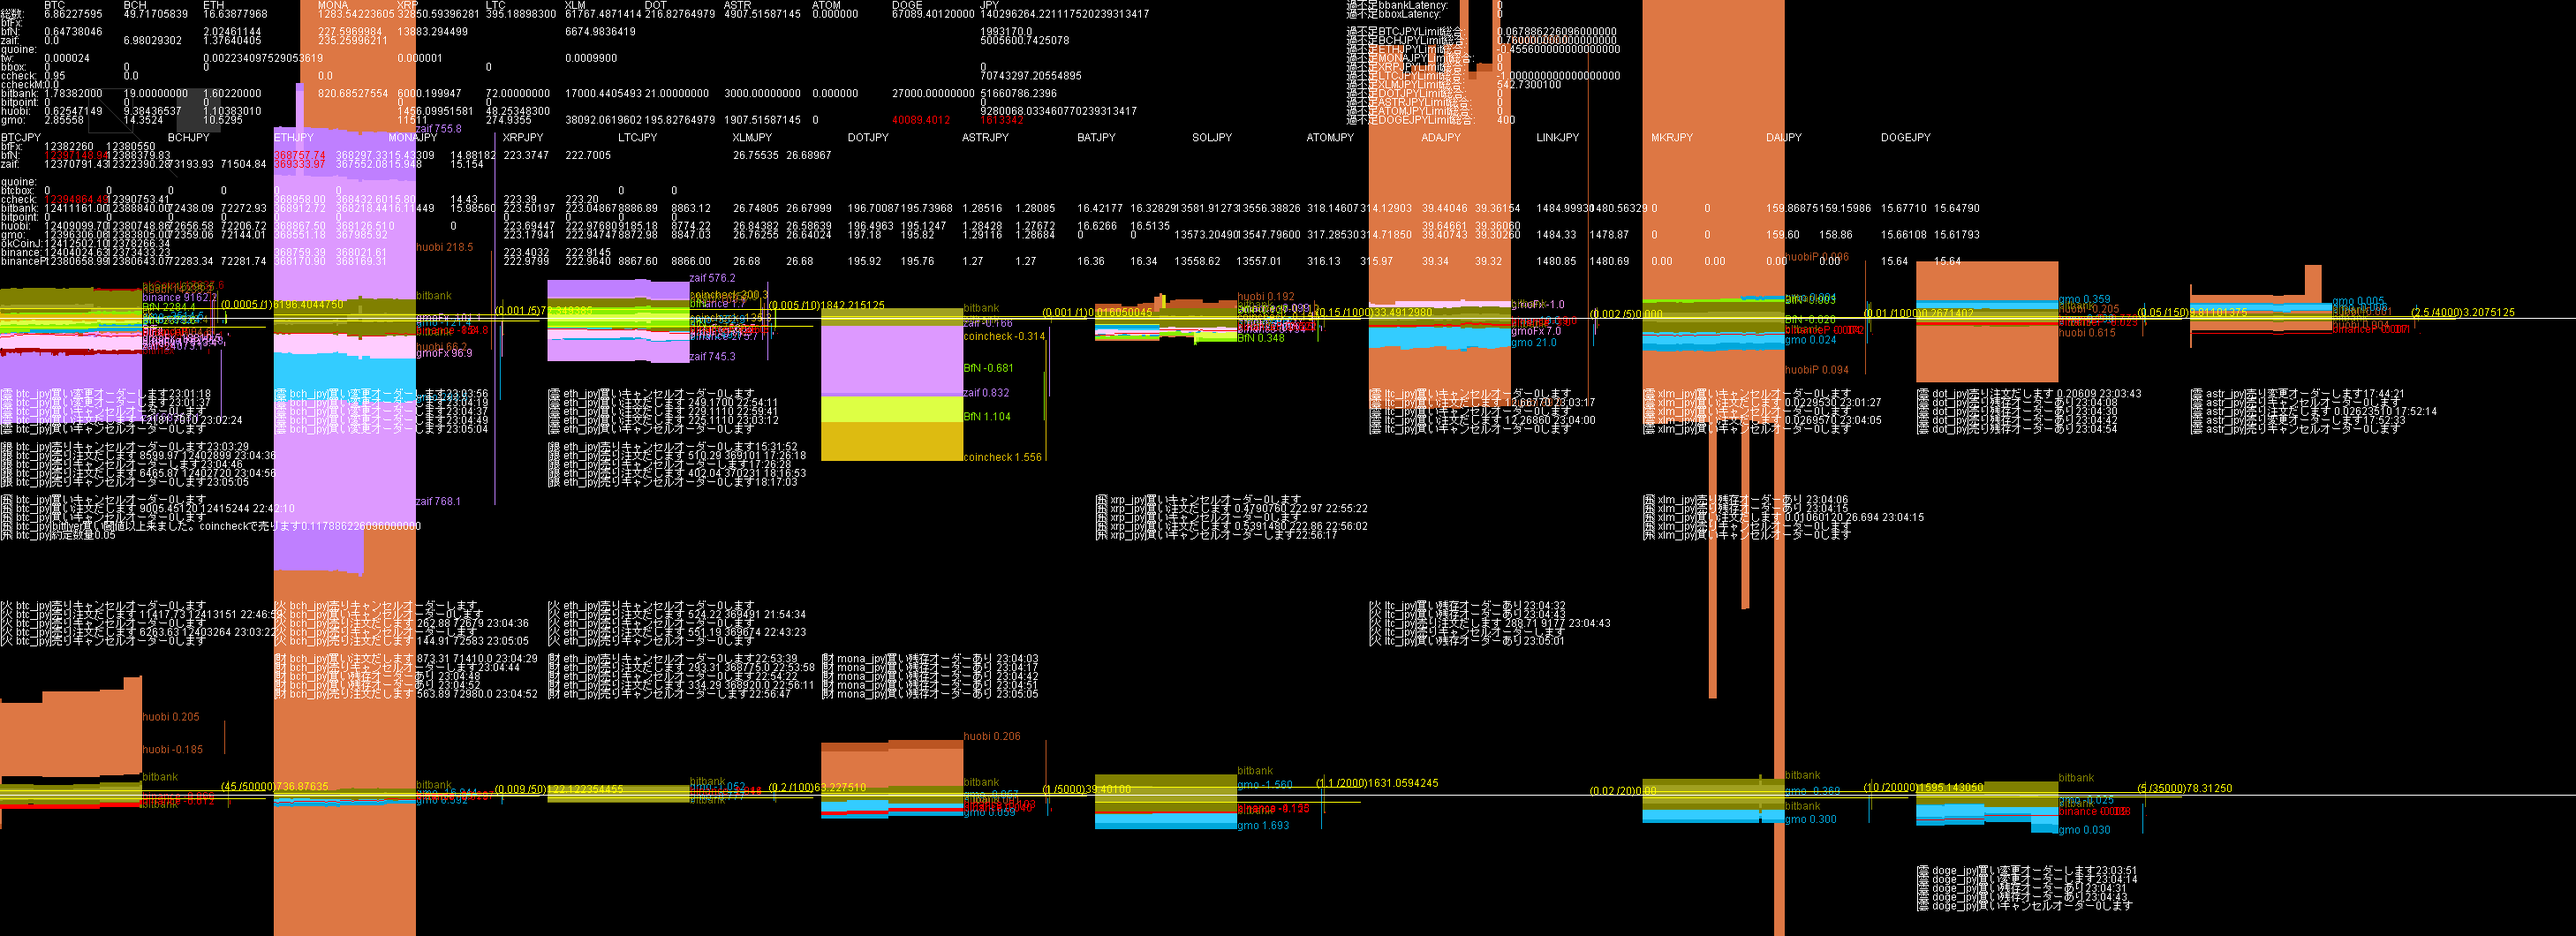
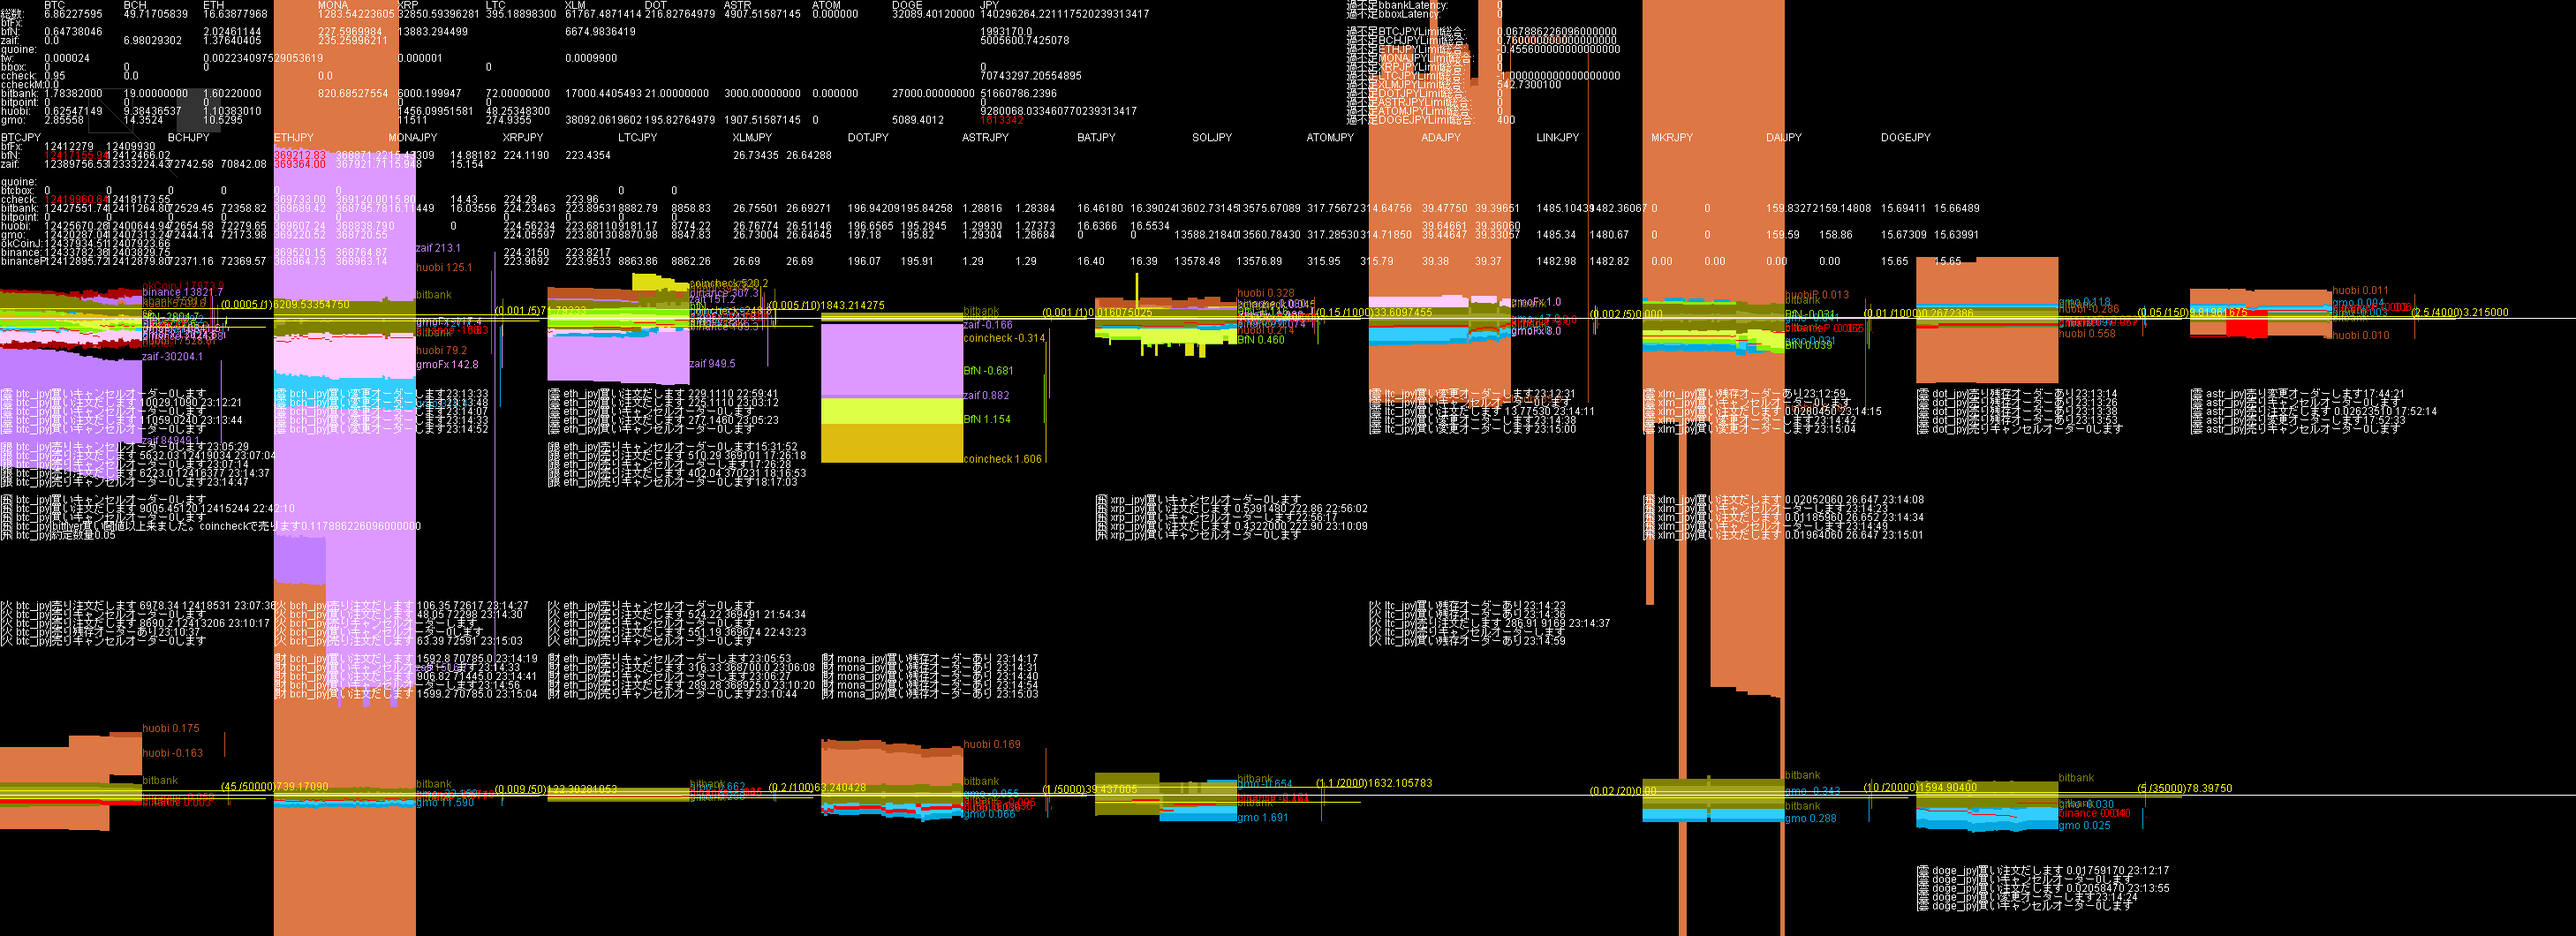
Update HTML file via Java

diff --git a/ca.html b/ca.html
@@ -16,6 +16,9 @@ th { background-color: #222; text-align: center; }
     <tr><th>ddhhmm</th><th>bfJPY</th><th>財JPY</th><th>ccJPY</th><th>銀JPY</th><th>火JPY</th><th>雲JPY</th><th>bfBTC</th><th>財BTC</th><th>ccBTC</th><th>銀BTC</th><th>火BTC</th><th>雲BTC</th><th>bfBCH</th><th>財BCH</th><th>ccBCH</th><th>銀BCH</th><th>火BCH</th><th>雲BCH</th><th>bfETH</th><th>財ETH</th><th>ccETH</th><th>銀ETH</th><th>火ETH</th><th>雲ETH</th><th>bfMONA</th><th>財MONA</th><th>ccMONA</th><th>銀MONA</th><th>火MONA</th><th>雲MONA</th><th>bfXRP</th><th>財XRP</th><th>ccXRP</th><th>銀XRP</th><th>火XRP</th><th>雲XRP</th><th>bfLTC</th><th>財LTC</th><th>ccLTC</th><th>銀LTC</th><th>火LTC</th><th>雲LTC</th><th>bfXLM</th><th>財XLM</th><th>ccXLM</th><th>銀XLM</th><th>火XLM</th><th>雲XLM</th><th>bfDOT</th><th>財DOT</th><th>ccDOT</th><th>銀DOT</th><th>火DOT</th><th>雲DOT</th><th>bfASTR</th><th>財ASTR</th><th>ccASTR</th><th>銀ASTR</th><th>火ASTR</th><th>雲ASTR</th><th>bfDOGE</th><th>財DOGE</th><th>ccDOGE</th><th>銀DOGE</th><th>火DOGE</th><th>雲DOGE</th>    </tr>  </thead>
   <tbody>
     <tr>
+<td>272315</td><td>00199</td><td>00500</td><td>07074</td><td>05166</td><td>00928</td><td><span style="color: #ff69b4">00161</span></td><td>00.65</td><td>00.00</td><td>00.95</td><td>01.78</td><td>00.63</td><td>02.86</td><td>00.00</td><td>06.98</td><td>00.00</td><td>19.00</td><td>09.38</td><td>14.35</td><td>02.02</td><td>01.38</td><td>00.00</td><td>01.60</td><td>01.10</td><td>10.53</td><td>0227.6</td><td>0235.3</td><td>0000.0</td><td>0820.7</td><td>0000.0</td><td>0000.0</td><td>13883</td><td>00000</td><td>00000</td><td>06000</td><td>01456</td><td>11511</td><td>00.00</td><td>00.00</td><td>00.00</td><td>72.00</td><td>48.25</td><td>274.94</td><td>00.00</td><td>00.00</td><td>00.00</td><td>17000.44</td><td>00.00</td><td>38092.06</td><td>00.00</td><td>00.00</td><td>00.00</td><td>21.00</td><td>00.00</td><td>195.83</td><td>00.00</td><td>00.00</td><td>00.00</td><td>3000.00</td><td>00.00</td><td>1907.52</td><td>00.00</td><td>00.00</td><td>00.00</td><td>27000.00</td><td>00.00</td><td>5089.40</td>
+    </tr>
+    <tr>
 <td>272305</td><td>00199</td><td>00500</td><td>07074</td><td>05166</td><td>00928</td><td><span style="color: #ff69b4">00161</span></td><td>00.65</td><td>00.00</td><td>00.95</td><td>01.78</td><td>00.63</td><td>02.86</td><td>00.00</td><td>06.98</td><td>00.00</td><td>19.00</td><td>09.38</td><td>14.35</td><td>02.02</td><td>01.38</td><td>00.00</td><td>01.60</td><td>01.10</td><td>10.53</td><td>0227.6</td><td>0235.3</td><td>0000.0</td><td>0820.7</td><td>0000.0</td><td>0000.0</td><td>13883</td><td>00000</td><td>00000</td><td>06000</td><td>01456</td><td>11511</td><td>00.00</td><td>00.00</td><td>00.00</td><td>72.00</td><td>48.25</td><td>274.94</td><td>00.00</td><td>00.00</td><td>00.00</td><td>17000.44</td><td>00.00</td><td>38092.06</td><td>00.00</td><td>00.00</td><td>00.00</td><td>21.00</td><td>00.00</td><td>195.83</td><td>00.00</td><td>00.00</td><td>00.00</td><td>3000.00</td><td>00.00</td><td>1907.52</td><td>00.00</td><td>00.00</td><td>00.00</td><td>27000.00</td><td>00.00</td><td><span style="color: #4169e1">40089.40</span></td>
     </tr>
     <tr>
